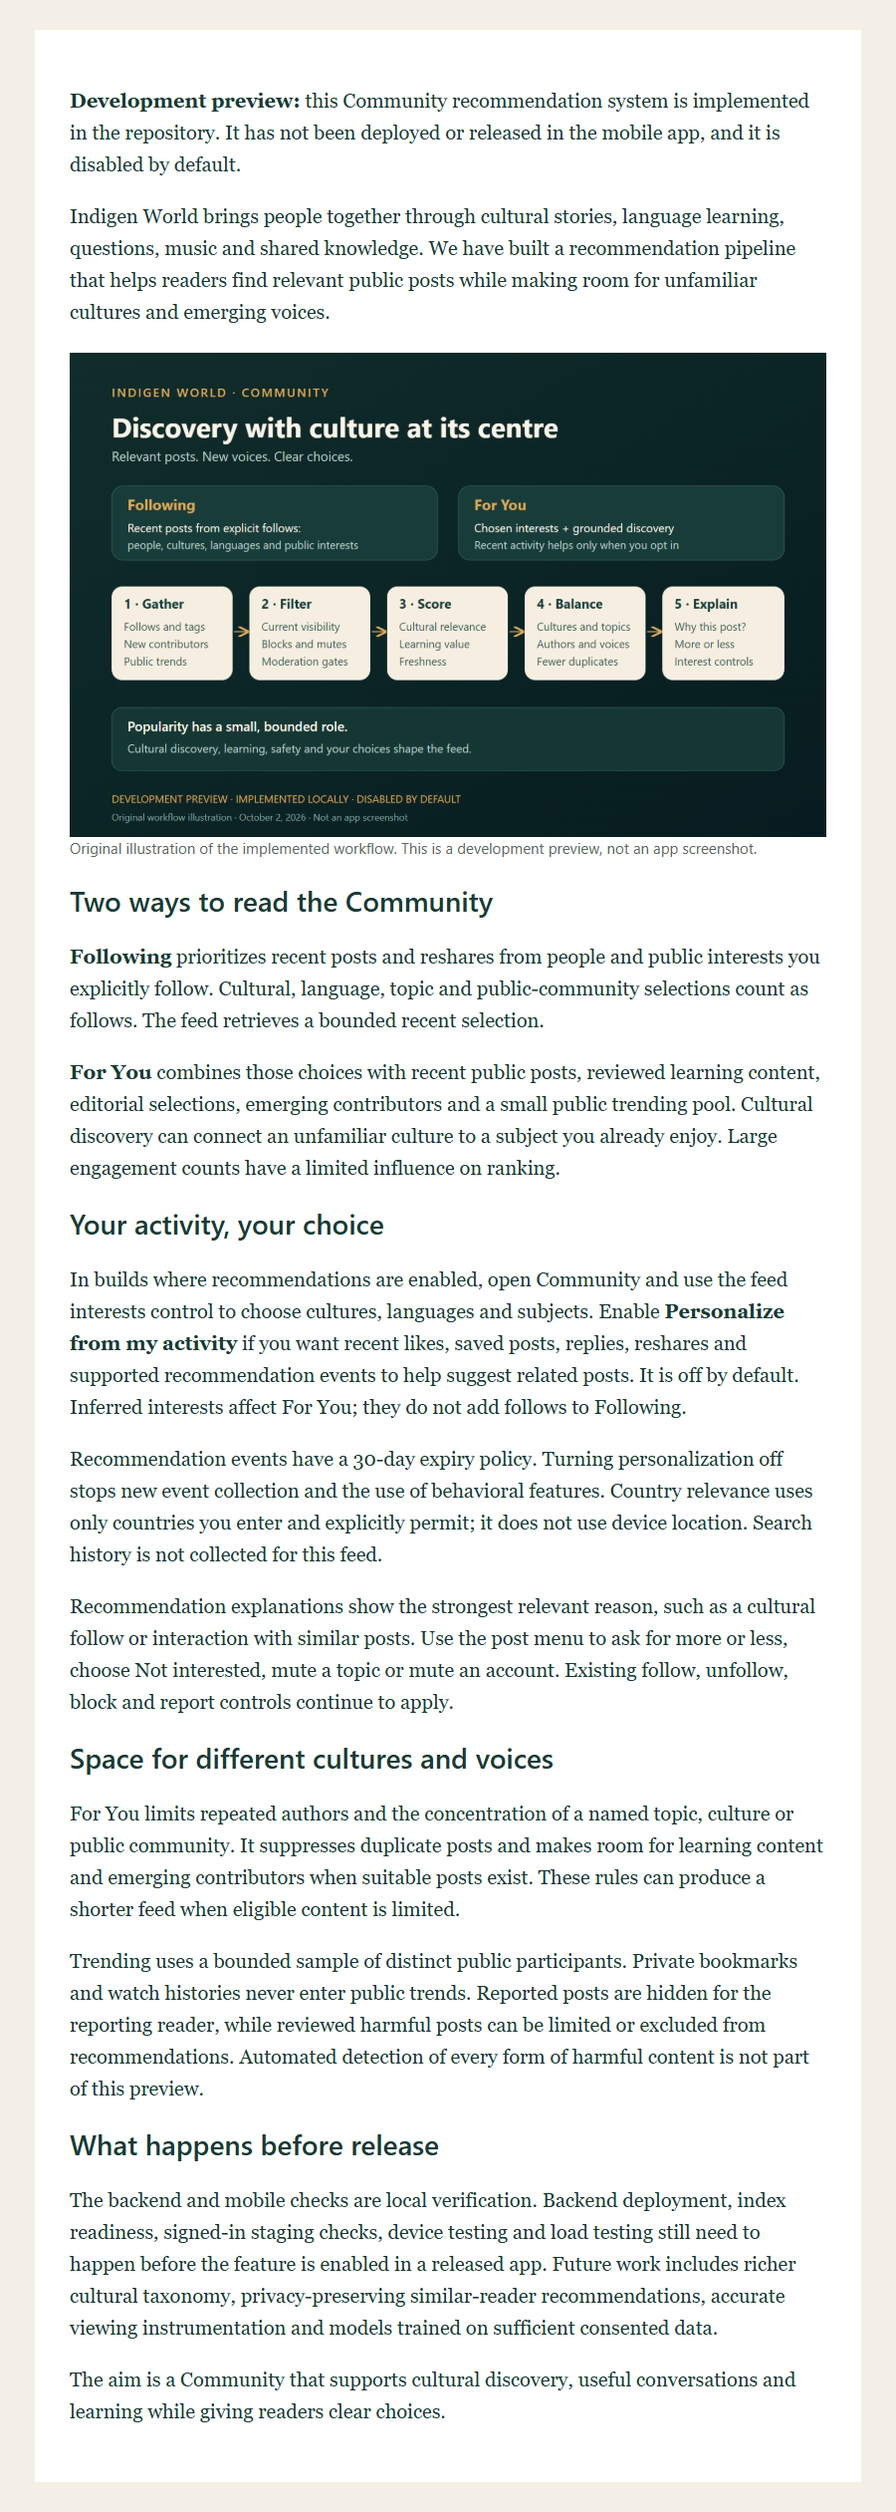
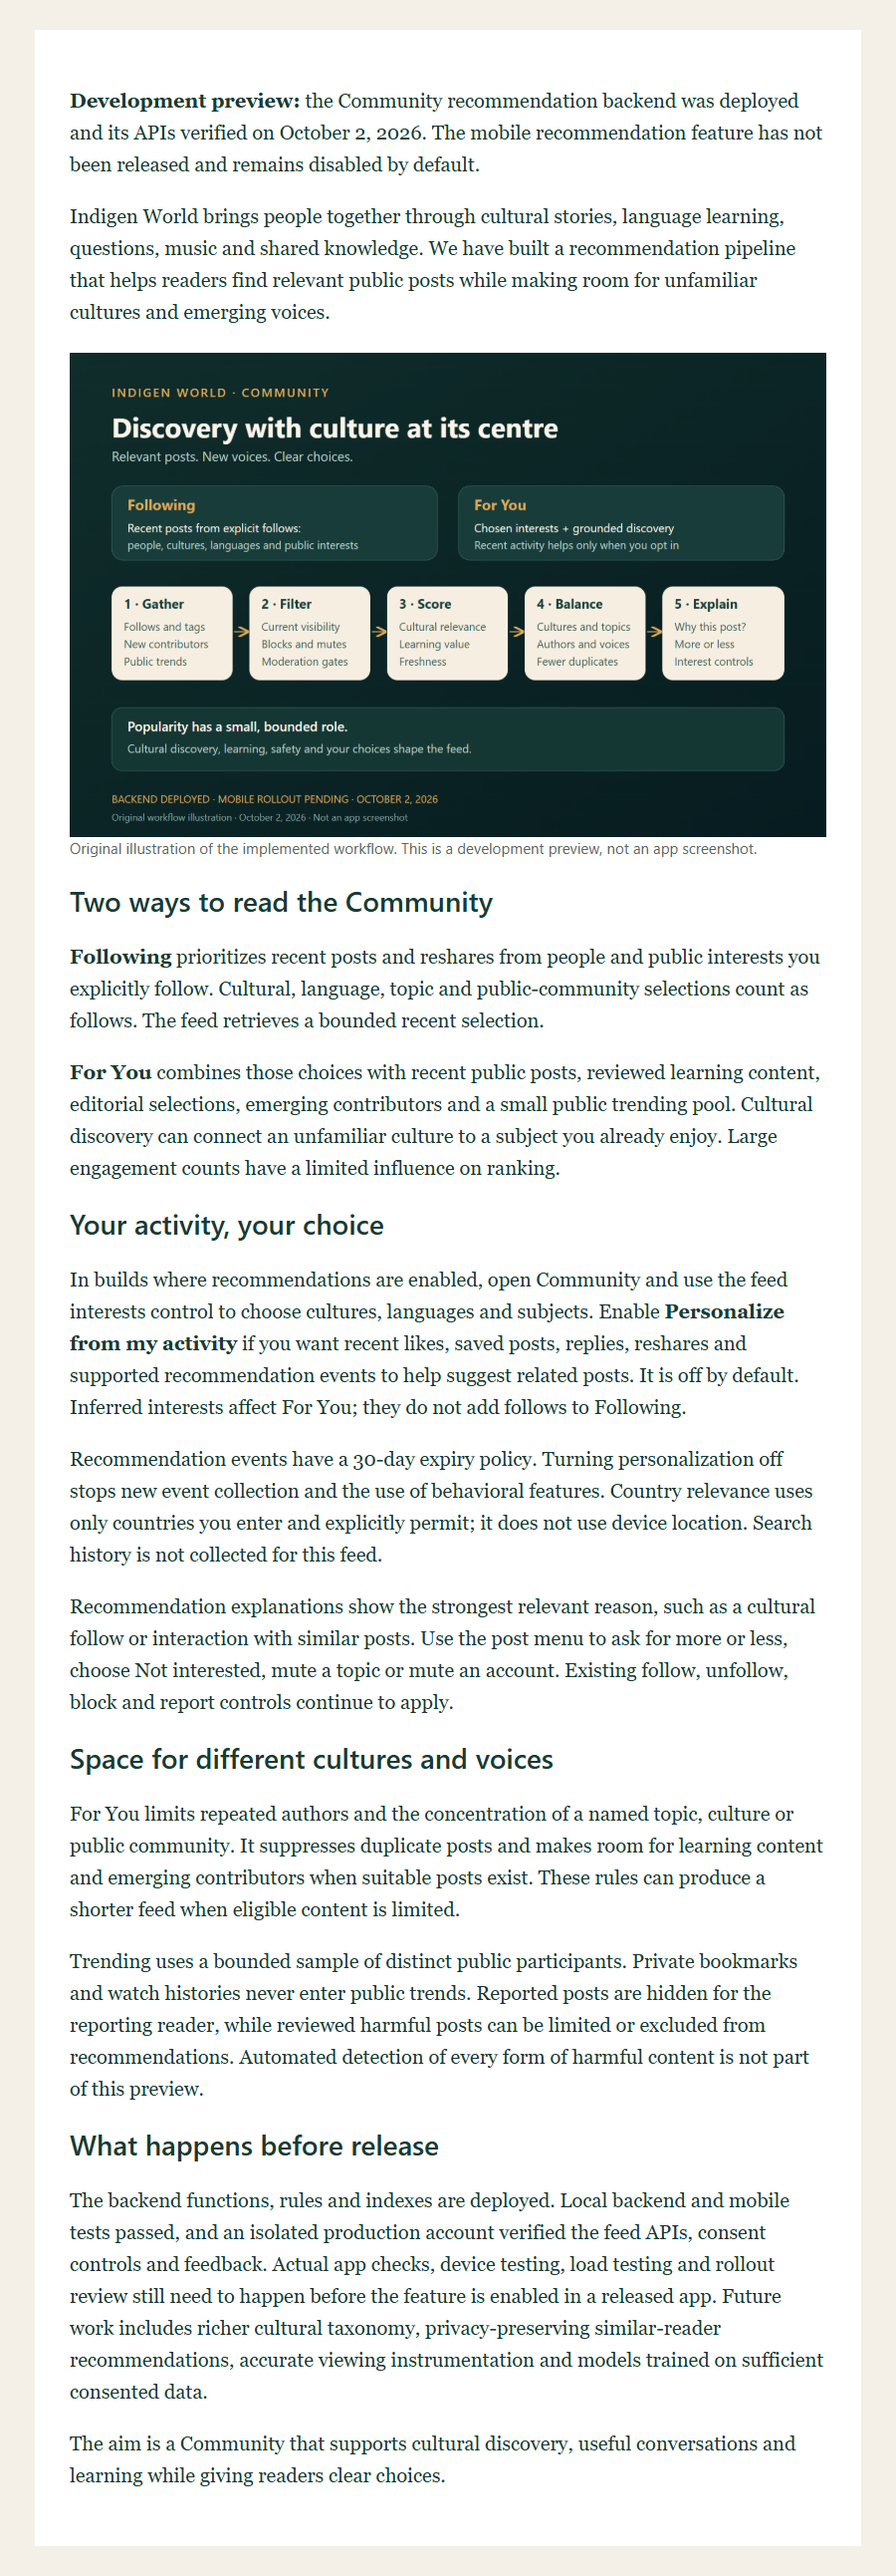
docs(community): record verified Firebase feed deployment

Changed region(s): [[0.0622, 0.0309, 0.9333, 0.9901]]

diff --git a/apps/updates-blog/posts/2026-10-02-community-feed-algorithm/post.html b/apps/updates-blog/posts/2026-10-02-community-feed-algorithm/post.html
@@ -1,5 +1,5 @@
 <article>
-  <p><strong>Development preview:</strong> this Community recommendation system is implemented in the repository. It has not been deployed or released in the mobile app, and it is disabled by default.</p>
+  <p><strong>Development preview:</strong> the Community recommendation backend was deployed and its APIs verified on October 2, 2026. The mobile recommendation feature has not been released and remains disabled by default.</p>
   <p>Indigen World brings people together through cultural stories, language learning, questions, music and shared knowledge. We have built a recommendation pipeline that helps readers find relevant public posts while making room for unfamiliar cultures and emerging voices.</p>
   <figure>
     <img src="images/feed-pipeline.png" alt="Illustration of the Community pipeline: gather public posts, apply safety filters, score relevance and learning value, balance cultures and voices, then explain the recommendation." style="width:100%;height:auto;max-width:100%;" />
@@ -16,6 +16,6 @@
   <p>For You limits repeated authors and the concentration of a named topic, culture or public community. It suppresses duplicate posts and makes room for learning content and emerging contributors when suitable posts exist. These rules can produce a shorter feed when eligible content is limited.</p>
   <p>Trending uses a bounded sample of distinct public participants. Private bookmarks and watch histories never enter public trends. Reported posts are hidden for the reporting reader, while reviewed harmful posts can be limited or excluded from recommendations. Automated detection of every form of harmful content is not part of this preview.</p>
   <h2>What happens before release</h2>
-  <p>The backend and mobile checks are local verification. Backend deployment, index readiness, signed-in staging checks, device testing and load testing still need to happen before the feature is enabled in a released app. Future work includes richer cultural taxonomy, privacy-preserving similar-reader recommendations, accurate viewing instrumentation and models trained on sufficient consented data.</p>
+  <p>The backend functions, rules and indexes are deployed. Local backend and mobile tests passed, and an isolated production account verified the feed APIs, consent controls and feedback. Actual app checks, device testing, load testing and rollout review still need to happen before the feature is enabled in a released app. Future work includes richer cultural taxonomy, privacy-preserving similar-reader recommendations, accurate viewing instrumentation and models trained on sufficient consented data.</p>
   <p>The aim is a Community that supports cultural discovery, useful conversations and learning while giving readers clear choices.</p>
 </article>

diff --git a/docs/product/community-recommendations.md b/docs/product/community-recommendations.md
@@ -1,6 +1,7 @@
 # Community recommendations: implementation and scale plan
 
-Prepared October 1–2, 2026. This is a repository implementation, **not a confirmed live release**.
+Prepared October 1–2, 2026. **Backend deployed October 2** to
+`project-kassena-7e026`; the mobile recommendation feature has not been released.
 The Flutter rollout flag `COMMUNITY_RECOMMENDATIONS` defaults to false. Deploy and
 validate the backend before building with `--dart-define=COMMUNITY_RECOMMENDATIONS=true`.
 
@@ -503,8 +504,33 @@ unsafe trend exclusion, idempotent post indexing and delivery diversity after
 edits. Emulator shutdown succeeded. The 251-test Community mobile suite passed,
 followed by eight updated client/preferences tests, including stable pagination,
 per-kind event deduplication, expiry refresh and network retry. Flutter analysis
-of Community and those two test files reported no issues. No production
-deployment, signed-in staging UI session, physical phone check or load test is claimed.
+of Community and those two test files reported no issues. After integrating the
+latest GitHub main, the Functions build, 18 backend tests and 12 integration tests
+passed again; the upstream Labs helper tests and Blogger theme checks also passed.
+No signed-in staging UI session, physical phone check or load test is claimed.
+
+### Production delivery evidence — October 2, 2026
+
+Implementation commit `a268f80` was pushed with upstream integration at
+`6c1bd3e9ab45ddfe82b6d85820b498d67be135ec`. Firebase deployment completed for all
+five Community callables, `indexCommunityFeedPost`, `updateCommunityFeedTrends`,
+Firestore rules and indexes in `project-kassena-7e026`, region `us-central1`.
+At 12:16 UTC, the Cloud APIs confirmed all seven functions `ACTIVE`, all six new
+composite indexes `READY`, both TTL policies `ACTIVE`, and the 15-minute scheduler
+`ENABLED`. An unauthenticated feed request returned HTTP 401/UNAUTHENTICATED.
+
+The metadata backfill scanned and updated 66 existing posts without changing
+curation. A follow-up dry run reported zero changes and zero skipped posts.
+An isolated temporary production Auth account verified authenticated For You
+(`cultural-balance-v2`), empty Following before explicit follows, consent-off event
+rejection, consented/idempotent impressions, private less feedback and preference
+cursor invalidation. The test account, its preferences, sessions, events and rate
+limit rows were removed afterward. No real member's follows or preferences changed.
+
+Sanitized deployment and smoke receipts are saved in
+[`community-feed-deployment.json`](community-feed-deployment.json). This confirms
+backend deployment and API behavior; it does not establish released mobile/UI
+availability, universal moderation, trend-job execution, or production load capacity.
 
 Run `npm run test:community-feed` and `npm run test:community-feed:integration`.
 The latter uses `.community-feed-test.firebase.json`, demo project
@@ -527,6 +553,9 @@ node services/functions/scripts/backfill-community-feed-features.mjs --project Y
 ```
 
 The script uses Application Default Credentials or `FIRESTORE_EMULATOR_HOST`.
+Add `--firebase-login` to use an existing Firebase CLI login in memory when ADC
+is unavailable; this requires the repository's development dependencies. It
+does not write credentials to disk or print tokens.
 It pages by document ID, skips invalid timestamps, rereads posts transactionally
 before applying metadata, and preserves all reviewer/trend fields. It does not
 guess cultural tags, change moderation or mark accounts as emerging. Review its

diff --git a/apps/updates-blog/posts/2026-10-02-community-feed-algorithm/README.md b/apps/updates-blog/posts/2026-10-02-community-feed-algorithm/README.md
@@ -6,7 +6,10 @@
 - **Suggested permalink:** community-feed-culture-and-choice
 - **Prepared:** October 2, 2026
 - **Publication:** Blogger draft; not published or shared.
-- **Deployment:** Not deployed. `COMMUNITY_RECOMMENDATIONS` defaults to false.
+- **Backend deployment:** October 2, 2026, `project-kassena-7e026`, `us-central1`.
+  Seven functions and Firestore rules/indexes deployed; active functions, ready
+  indexes, TTL and scheduler confirmed through Cloud APIs.
+- **Mobile rollout:** Not released. `COMMUNITY_RECOMMENDATIONS` defaults to false.
 
 ## What this update covers
 
@@ -21,7 +24,7 @@ in `docs/product/community-recommendations.md`.
 This post supersedes the earlier development preview's statement that activity
 does not yet influence ranking. Older release drafts are preserved. No live
 release, complete bot/harm detector, collaborative model or million-user SLA is
-claimed. Viewing-duration/skip ingestion is supported but accurate mobile
+claimed for the mobile feature. Viewing-duration/skip ingestion is supported but accurate mobile
 instrumentation remains future work. Share events represent share intent.
 
 ## Image credits and upload
@@ -50,17 +53,21 @@ Local checks passed: Functions build, 18 backend unit tests, 12 Firestore
 integration tests, the 251-test Community suite, eight updated client/preferences
 tests and clean Flutter analysis. The illustration and article were rendered and
 visually checked. Exact evidence and limits are recorded in the product design.
+Authenticated production smoke checks passed for both feed modes, consent/event
+idempotency, feedback and cursor invalidation. The temporary test account and
+its private test data were cleaned up. Retrieval metadata was backfilled for 66
+posts; a second dry run reported zero changes. No phone/UI or load test is claimed.
 The backend includes authentication, rate limiting, owner-bound sessions,
 consent/idempotency checks, current safety rechecks and server-only feature/event
 collections. The scheduled trend sampler is bounded and logs saturation.
 
-Before enabling: deploy the five callables, indexing trigger and
-`updateCommunityFeedTrends`, rules and indexes to the chosen staging project;
-backfill retrieval metadata using the documented dry-run/apply script; curate
-representative cultural and emerging posts; confirm index/TTL readiness; verify
+Backend delivery is complete for the production project. Before enabling a mobile
+release: curate representative cultural and emerging posts; verify
 two accounts, private communities, blocked accounts, consent on/off, pagination
-and topic controls; measure load/cost and exercise rollback. Enable the Flutter
+and topic controls in the actual app; measure load/cost and exercise rollback. Enable the Flutter
 flag only in a build targeting that verified backend. App Check must be configured
 before enforcing it for consuming clients.
 
-Repository preparation does not deploy, publish or send messages.
+The user explicitly authorized GitHub push and Firebase deployment. Those steps
+were completed. The Blogger article remains unpublished, and no sharing messages
+were sent. Mobile/store rollout remains a separate release step.

diff --git a/apps/updates-blog/posts/README.md b/apps/updates-blog/posts/README.md
@@ -6,7 +6,7 @@ date identifies when the post was prepared; it does not prove the update is live
 
 ## Posts
 
-- [2026-10-02: A Community feed built around culture and choice](2026-10-02-community-feed-algorithm/README.md) — unpublished development preview; opt-in behavioral ranking, distinct-actor trends, emerging voices and cultural diversity implemented locally. Disabled by default; rollout pending. Includes an original workflow illustration.
+- [2026-10-02: A Community feed built around culture and choice](2026-10-02-community-feed-algorithm/README.md) — unpublished development preview; backend deployed and APIs verified October 2. Opt-in behavioral ranking, distinct-actor trends, emerging voices and cultural diversity; mobile flag disabled and app rollout pending. Includes an original workflow illustration.
 
 - [2026-10-02: A little movement, with a purpose](2026-10-02-public-website-in-motion/README.md) — themed public-page and Labs animations, scroll reveals and motion preferences; deployed October 2 with verified production assets. Blogger publication pending. Includes actual preview screenshots.
 

diff --git a/apps/updates-blog/posts/2026-10-02-community-feed-algorithm/share.md b/apps/updates-blog/posts/2026-10-02-community-feed-algorithm/share.md
@@ -3,7 +3,8 @@
 Development preview: we're building an Indigen World Community feed around
 cultural relevance, learning and discovery. Following keeps your explicit follows
 recent; For You adds new voices and optional activity personalization, with clear
-controls and limits on repetitive content. Implemented locally; app rollout pending.
+controls and limits on repetitive content. Backend deployed and API-tested;
+mobile app rollout pending.
 
 **Published article URL: [ADD THE VERIFIED BLOGGER ARTICLE URL AFTER PUBLICATION]**
 
